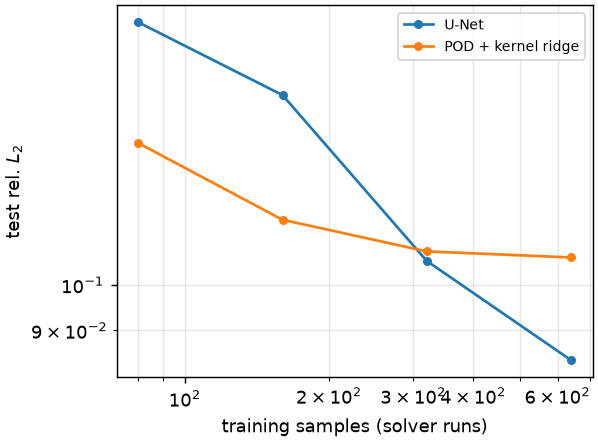
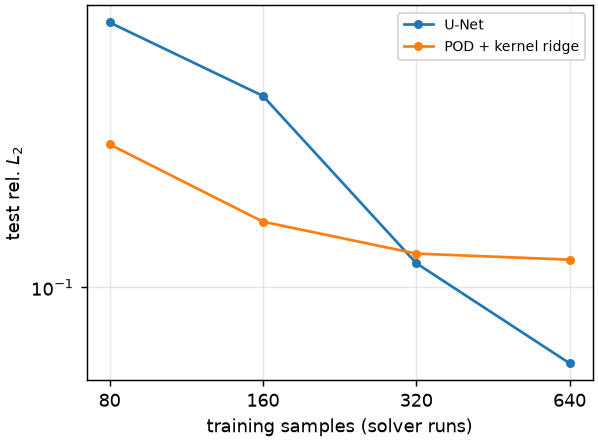
Tick the data-efficiency plot at the actual sample counts

Changed region(s): [[0.0301, 0.0, 0.9933, 1.0], [0.0, 0.3235, 0.0301, 0.5588]]

diff --git a/flowsurrogate/plots.py b/flowsurrogate/plots.py
@@ -69,11 +69,17 @@ def cd_scatter(results: dict[str, tuple[np.ndarray, np.ndarray]], path: Path) ->
 
 def data_efficiency(curves: dict[str, list[tuple[int, float]]], path: Path, ylabel: str = "test rel. $L_2$") -> None:
     fig, ax = plt.subplots(figsize=(4.6, 3.4), constrained_layout=True)
+    sizes: set[int] = set()
     for name, pts in curves.items():
         pts = sorted(pts)
+        sizes.update(p[0] for p in pts)
         ax.plot([p[0] for p in pts], [p[1] for p in pts], "o-", label=name, ms=4)
     ax.set_xscale("log")
     ax.set_yscale("log")
+    # Tick at the sample counts actually used; the default log decades collide.
+    ax.set_xticks(sorted(sizes))
+    ax.set_xticklabels([str(s) for s in sorted(sizes)])
+    ax.minorticks_off()
     ax.set_xlabel("training samples (solver runs)")
     ax.set_ylabel(ylabel)
     ax.grid(alpha=0.3, which="both")
